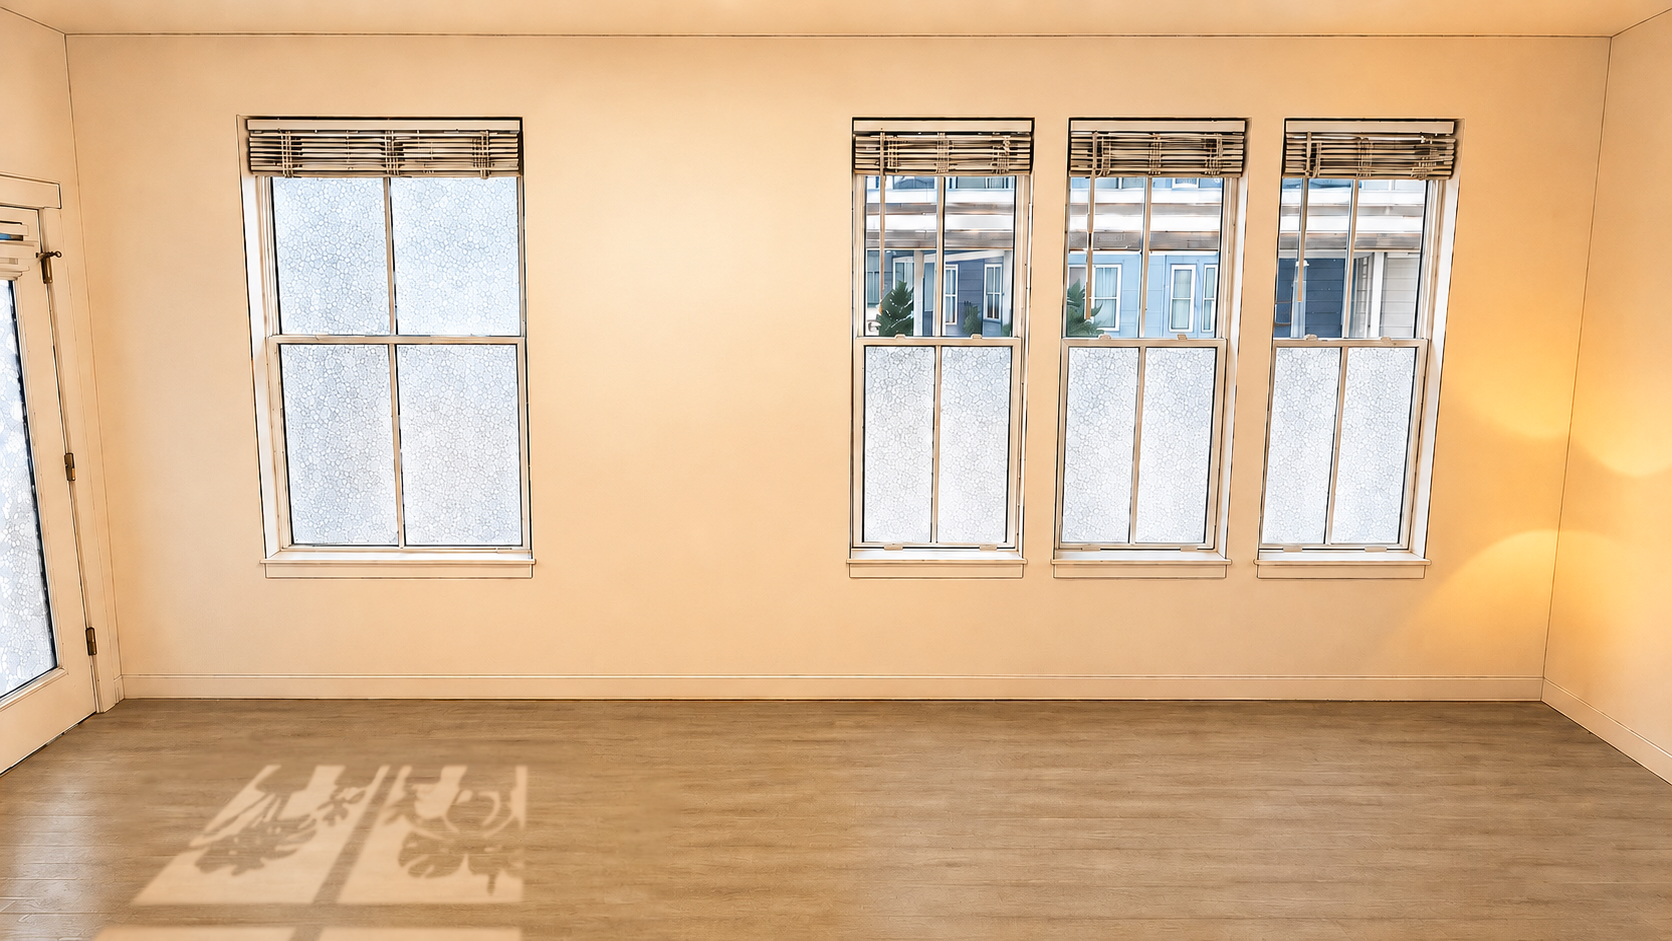
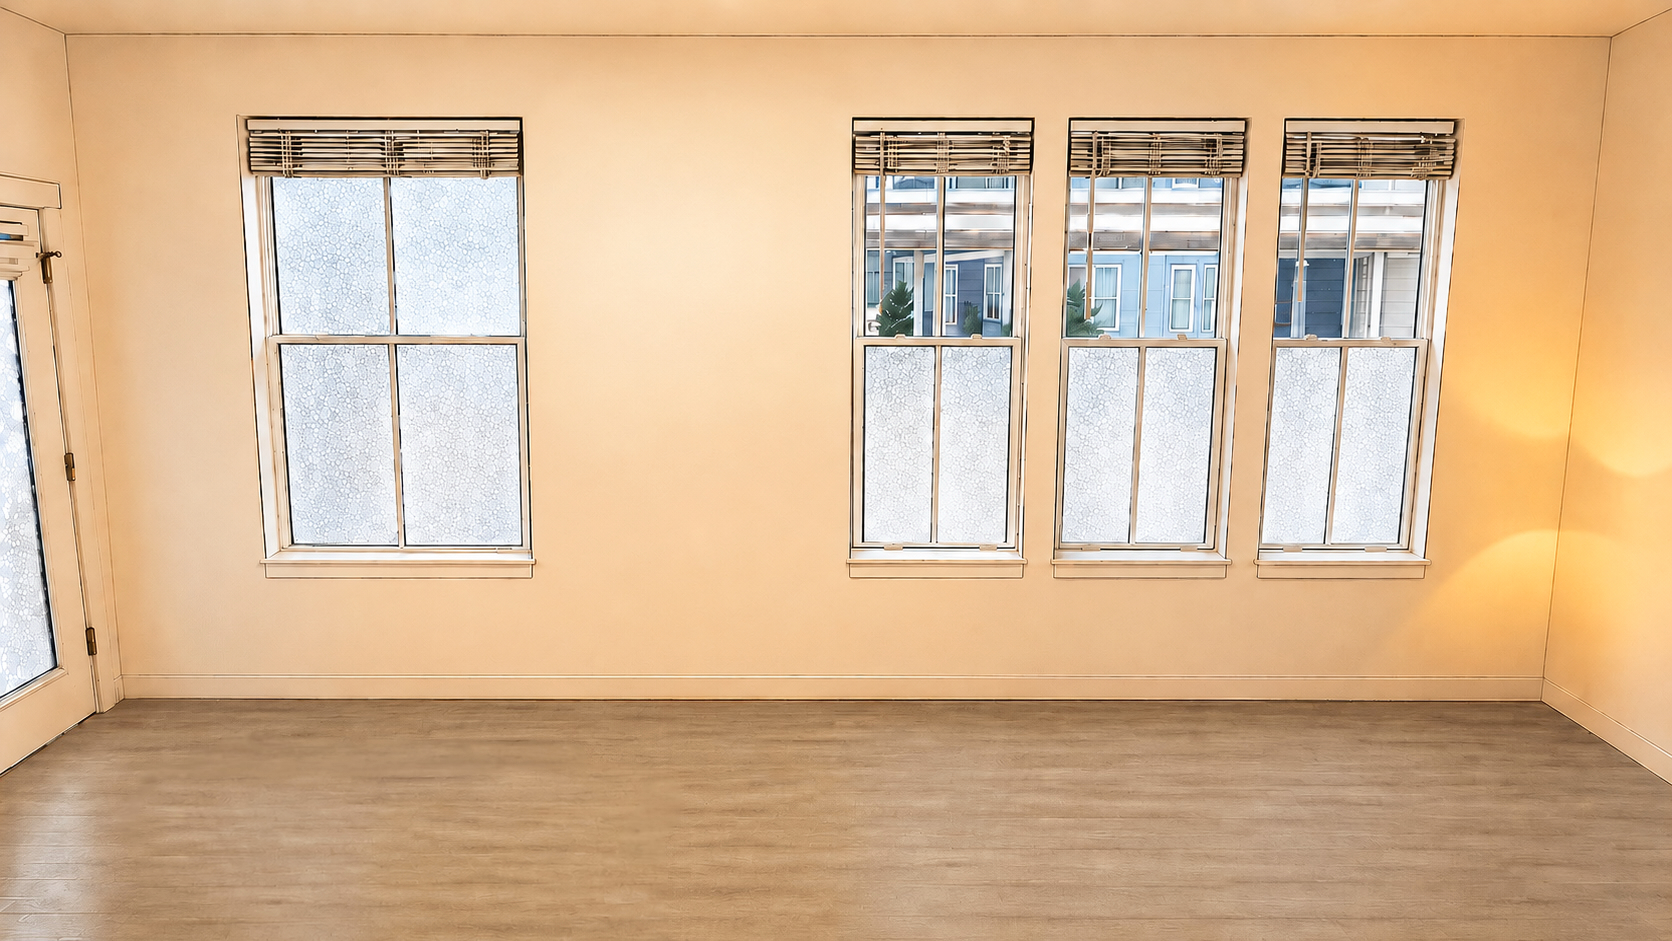
.

Changed region(s): [[0.0622, 0.8013, 0.3421, 1.0]]

diff --git a/index.html b/index.html
@@ -2764,7 +2764,22 @@
             stickerRotation: 0,
             stickerScaleX: 1,
             stickerScaleY: 1
-          }                      
+          },
+          {
+            name: "Sunlight",
+            decorative: true,
+            decorLayer: "behind",
+            locked: true,
+            x: 70,
+            y: 75,
+            sticker: "decor-stickers/sunlight.png",
+            stickerX: 70,
+            stickerY: 75,
+            stickerWidth: 180,
+            stickerRotation: 0,
+            stickerScaleX: 1,
+            stickerScaleY: 1
+          }                     
           ];
 
           checkAuthStatus();